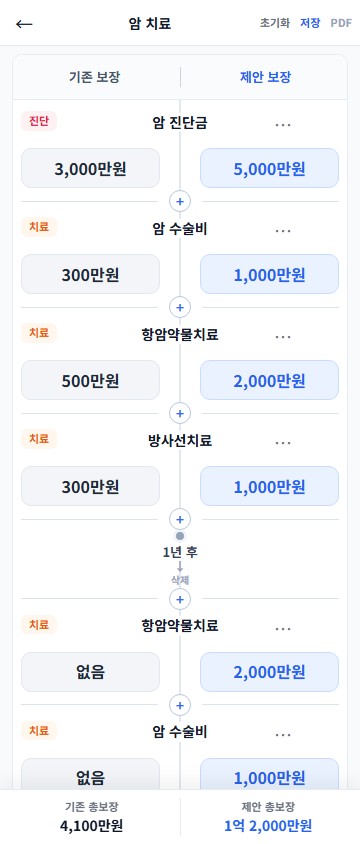
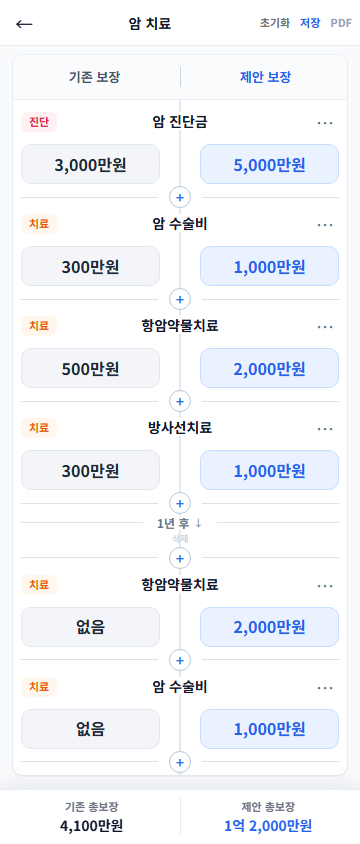
fix(coverage-simulator): align event header row and horizontal time separator
Flex center alignment for badge/title/menu; line-dash time marker with masked label on mobile preview.

diff --git a/src/features/coverage-simulator/styles/center-timeline.css b/src/features/coverage-simulator/styles/center-timeline.css
@@ -277,9 +277,9 @@
 }
 
 .coverage-simulator-root--mobile-preview .cs-axis-event__head {
-  display: grid;
-  grid-template-columns: var(--cs-axis-event-badge-col-width) 1fr var(--cs-axis-event-menu-col-width);
+  display: flex;
   align-items: center;
+  justify-content: flex-start;
   min-height: 28px;
   margin-bottom: var(--cs-timeline-title-amount-gap);
 }
@@ -288,7 +288,17 @@
   display: flex;
   align-items: center;
   justify-content: flex-start;
+  flex: 0 0 var(--cs-axis-event-badge-col-width);
+  width: var(--cs-axis-event-badge-col-width);
   z-index: 2;
+}
+
+.coverage-simulator-root--mobile-preview .cs-axis-event__badge .coverage-simulator-badge {
+  margin-bottom: 0;
+  line-height: 1;
+  min-height: 20px;
+  padding: 2px 8px;
+  box-sizing: border-box;
 }
 
 .coverage-simulator-root--mobile-preview .cs-axis-event__title-axis {
@@ -309,7 +319,7 @@
   padding: 0 var(--cs-axis-title-mask-pad-x);
   background: var(--cs-axis-title-mask-bg);
   font-size: 0.875rem;
-  line-height: 1.25;
+  line-height: 1.15;
   font-weight: 700;
   white-space: nowrap;
   overflow: hidden;
@@ -323,17 +333,23 @@
   top: auto;
   right: auto;
   transform: none;
-  justify-self: end;
+  flex: 0 0 var(--cs-axis-event-menu-col-width);
+  width: var(--cs-axis-event-menu-col-width);
+  margin-left: auto;
+  display: flex;
+  align-items: center;
+  justify-content: flex-end;
   z-index: 2;
 }
 
-.coverage-simulator-root--mobile-preview .cs-axis-marker__label {
-  display: inline-block;
-  padding: 0 var(--cs-axis-title-mask-pad-x);
-  background: var(--cs-axis-title-mask-bg);
-  position: relative;
-  z-index: 2;
-  box-shadow: 0 0 0 1px var(--cs-axis-title-mask-bg);
+.coverage-simulator-root--mobile-preview .cs-axis-row-menu__trigger {
+  display: inline-flex;
+  align-items: center;
+  justify-content: center;
+  width: 28px;
+  height: 28px;
+  padding: 0;
+  line-height: 1;
 }
 
 .coverage-simulator-root--mobile-preview .cs-axis-event__compare {
@@ -356,8 +372,8 @@
 
 .coverage-simulator-root--mobile-preview .cs-axis-marker.coverage-simulator-time-marker {
   margin: 0;
-  padding: var(--cs-timeline-marker-pad-y) var(--cs-timeline-item-pad-x);
-  gap: 2px;
+  padding: var(--cs-timeline-amount-insert-gap) var(--cs-timeline-item-pad-x);
+  gap: 4px;
   border: none;
   border-radius: 0;
   background: transparent;
@@ -365,45 +381,58 @@
 }
 
 .coverage-simulator-root--mobile-preview .cs-axis-marker {
-  padding: var(--cs-timeline-marker-pad-y) var(--cs-timeline-item-pad-x);
+  padding: var(--cs-timeline-amount-insert-gap) var(--cs-timeline-item-pad-x);
   background: transparent;
   border: none;
   border-top: none;
   border-bottom: none;
 }
 
-.coverage-simulator-root--mobile-preview .cs-axis-marker__rail {
-  margin-bottom: 2px;
+.coverage-simulator-root--mobile-preview .cs-axis-marker__hline {
+  display: flex;
+  align-items: center;
+  gap: 8px;
+  width: 100%;
 }
 
-.coverage-simulator-root--mobile-preview .cs-axis-marker__dot {
-  width: 8px;
-  height: 8px;
-  box-shadow: 0 0 0 3px #f1f5f9;
+.coverage-simulator-root--mobile-preview .cs-axis-marker__hline-seg {
+  flex: 1;
+  min-width: 0;
+  height: 1px;
+  background: #dce3ec;
+}
+
+.coverage-simulator-root--mobile-preview .cs-axis-marker__hline-label {
+  display: inline-flex;
+  align-items: center;
+  gap: 4px;
+  flex-shrink: 0;
+  padding: 0 6px;
+  background: var(--cs-axis-title-mask-bg);
+  line-height: 1.15;
 }
 
 .coverage-simulator-root--mobile-preview .cs-axis-marker__label {
-  font-size: 0.8125rem;
+  font-size: 0.75rem;
   font-weight: 700;
-  line-height: 1.2;
+  line-height: 1.15;
+  color: #64748b;
 }
 
 .coverage-simulator-root--mobile-preview .cs-axis-marker__arrow {
-  font-size: 0.75rem;
+  font-size: 0.625rem;
   line-height: 1;
-}
-
-.coverage-simulator-root--mobile-preview .cs-axis-marker__content {
-  gap: 0;
+  color: #94a3b8;
 }
 
 .coverage-simulator-root--mobile-preview .cs-axis-marker__delete {
-  margin-top: 2px;
+  margin: 0;
   padding: 0;
-  font-size: 0.625rem;
+  font-size: 0.5625rem;
   line-height: 1.2;
   text-decoration: none;
-  color: #94a3b8;
+  color: #cbd5e1;
+  font-weight: 500;
 }
 
 .coverage-simulator-root--mobile-preview .cs-mobile-editor-header {
@@ -704,6 +733,29 @@
   border-radius: 50%;
   background: #94a3b8;
   box-shadow: 0 0 0 4px #f1f5f9;
+}
+
+.cs-axis-marker__hline {
+  display: flex;
+  align-items: center;
+  gap: var(--cs-space-2);
+  width: 100%;
+}
+
+.cs-axis-marker__hline-seg {
+  flex: 1;
+  min-width: 0;
+  height: 1px;
+  background: var(--cs-color-border);
+}
+
+.cs-axis-marker__hline-label {
+  display: inline-flex;
+  align-items: center;
+  gap: 4px;
+  flex-shrink: 0;
+  padding: 0 var(--cs-space-2);
+  background: var(--cs-color-surface);
 }
 
 .cs-axis-marker__content {

diff --git a/src/features/coverage-simulator/components/center-timeline/CenterAxisTimeline.tsx b/src/features/coverage-simulator/components/center-timeline/CenterAxisTimeline.tsx
@@ -70,20 +70,21 @@ function renderTimeMarker(
 ) {
   return (
     <div key={item.id} className="cs-axis-marker coverage-simulator-time-marker">
-      <div className="cs-axis-marker__rail" aria-hidden="true">
-        <span className="cs-axis-marker__dot" />
+      <div className="cs-axis-marker__hline" role="presentation">
+        <span className="cs-axis-marker__hline-seg" aria-hidden="true" />
+        <span className="cs-axis-marker__hline-label">
+          <span className="cs-axis-marker__label">{item.label}</span>
+          <span className="cs-axis-marker__arrow" aria-hidden="true">↓</span>
+        </span>
+        <span className="cs-axis-marker__hline-seg" aria-hidden="true" />
       </div>
-      <div className="cs-axis-marker__content">
-        <span className="cs-axis-marker__label">{item.label}</span>
-        <span className="cs-axis-marker__arrow" aria-hidden="true">↓</span>
-        <button
-          type="button"
-          className="cs-axis-marker__delete coverage-simulator-time-marker__delete"
-          onClick={() => onRemove(item.id)}
-        >
-          삭제
-        </button>
-      </div>
+      <button
+        type="button"
+        className="cs-axis-marker__delete coverage-simulator-time-marker__delete"
+        onClick={() => onRemove(item.id)}
+      >
+        삭제
+      </button>
     </div>
   )
 }
